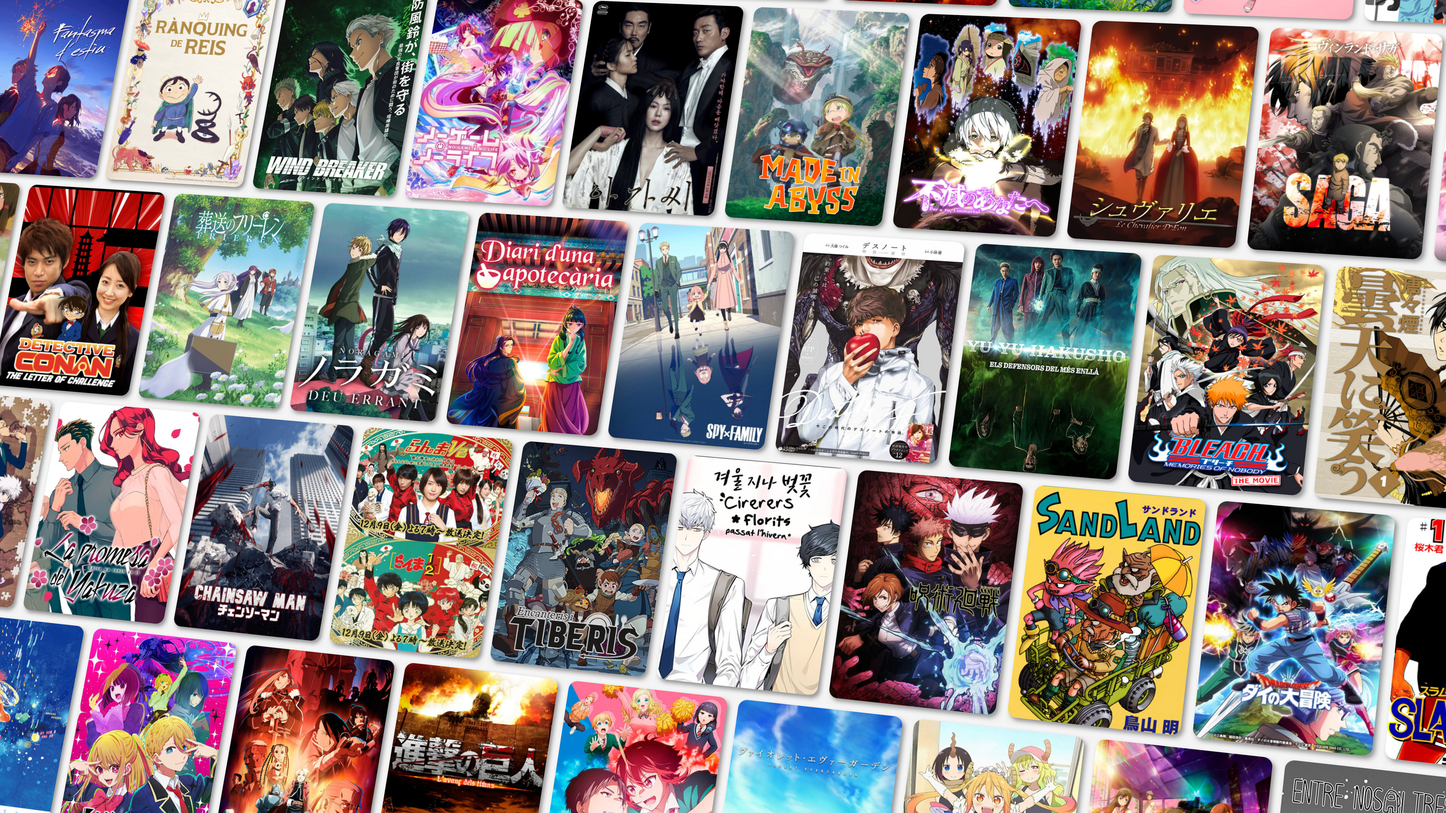
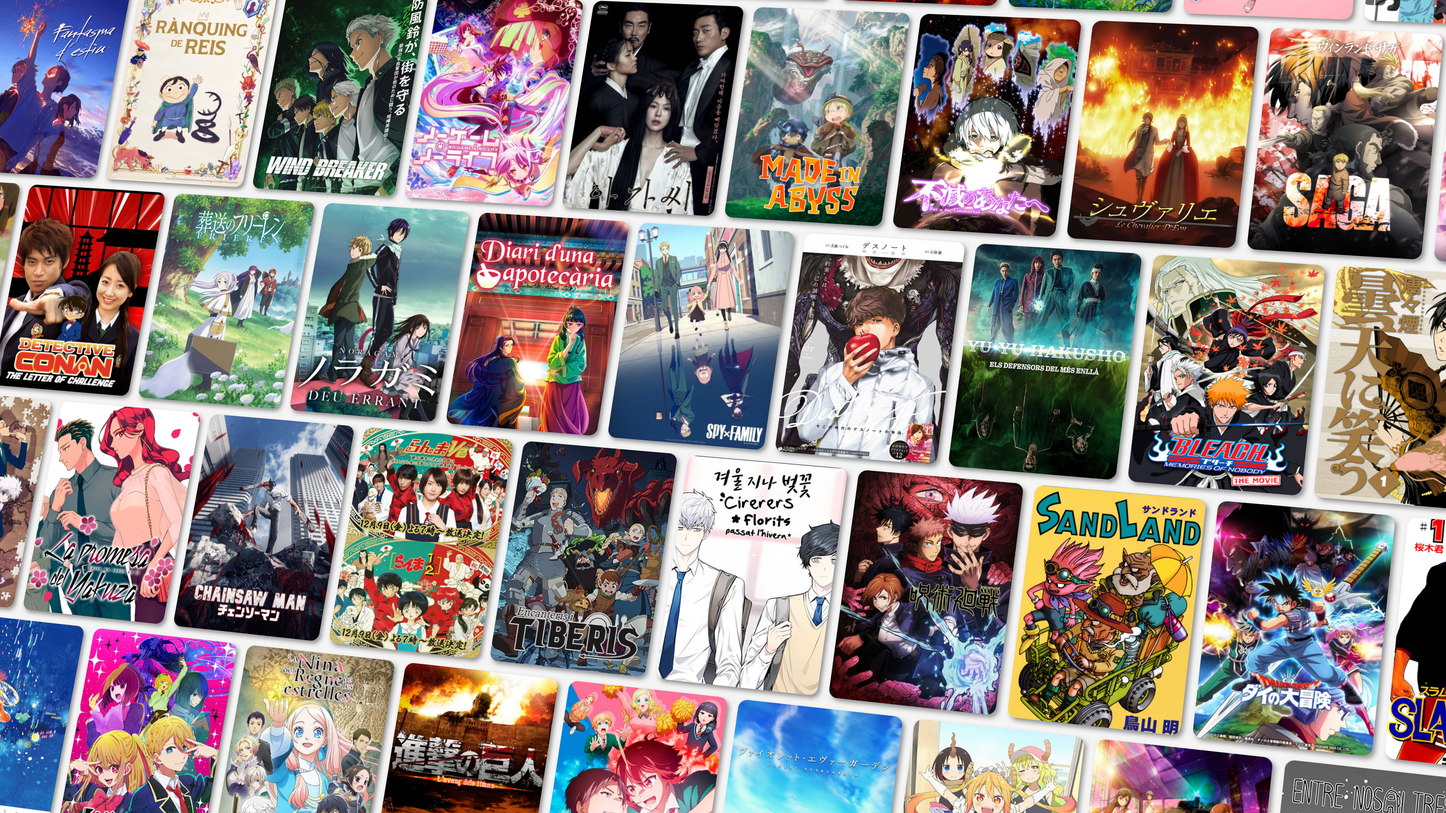
Update social images, fix minor issues

Changed region(s): [[0.125, 0.7755, 0.2812, 1.0]]

diff --git a/tools/generate_backgrounds.php b/tools/generate_backgrounds.php
@@ -4,7 +4,7 @@ define('IMAGE_HEIGHT', 3000);
 define('COVER_WIDTH', 300);
 define('COVER_HEIGHT', 424);
 define('MARGIN', 21);
-define('MODE', 'light');
+define('MODE', 'dark');
 define('ROUND_CORNER', 16);
 
 function scale_smallest_side($image, $desired_width, $desired_height) {
@@ -129,22 +129,22 @@ $current_width = 0;
 $type='fansubs';
 $covers = array(
 	array(0, 0, 0, 0, 0, 0, 0, 0, 0, 0, 0, 0, 0, 0, 0),
-	array(0, 0, 0, 0, 0, 0, 0, 0, 0, 0, 0, 105, 129, 483, 614),
-	array(0, 0, 0, 0, 0, 3918, 537, 4162, 312, 3895, 527, 496, 530, 411, 240),
-	array(0, 0, 0, 0, 0, 578, 3878, 4077, 106, 4101, 597, 3338, 4152, 269, 2088),
-	array(0, 0, 0, 0, 0, 375, 4241, 3930, 3879, 4139, 3383, 489, 4043, 482, 3811),
-	array(0, 0, 0, 0, 0, 0, 459, 4036, 71, 89, 3970, 553, 308, 131, 3956)
+	array(0, 0, 0, 0, 0, 0, 0, 0, 0, 0, 0, 135, 159, 550, 690),
+	array(0, 0, 0, 0, 0, 3922, 606, 4187, 345, 3897, 597, 562, 599, 461, 267),
+	array(0, 0, 0, 0, 0, 652, 3880, 4093, 136, 4119, 673, 3338, 4177, 298, 2088),
+	array(0, 0, 0, 0, 0, 410, 4270, 3934, 3881, 4163, 3383, 552, 4058, 541, 3812),
+	array(0, 0, 0, 0, 0, 0, 515, 4049, 4272, 119, 3975, 622, 341, 161, 3962)
 );
 
 //HENTAI
 $type='hentai';
 $covers = array(
 	array(0, 0, 0, 0, 0, 0, 0, 0, 0, 0, 0, 0, 0, 0, 0),
-	array(0, 0, 0, 0, 0, 0, 0, 0, 0, 0, 0, 4081, 3971, 4153, 4163),
-	array(0, 0, 0, 0, 0, 4181, 3969, 4010, 3990, 4159, 485, 3937, 4005, 3910, 4048),
-	array(0, 0, 0, 0, 0, 4021, 3914, 257, 4205, 3992, 4056, 568, 4257, 543, 4092),
-	array(0, 0, 0, 0, 0, 3972, 4206, 412, 529, 532, 521, 4058, 3040, 467, 4235),
-	array(0, 0, 0, 0, 0, 0, 3998, 4094, 4004, 596, 3995, 3938, 4158, 256, 445)
+	array(0, 0, 0, 0, 0, 0, 0, 0, 0, 0, 0, 4095, 3980, 4178, 4188),
+	array(0, 0, 0, 0, 0, 4211, 3973, 4021, 3998, 4184, 545, 3942, 4015, 3911, 4063),
+	array(0, 0, 0, 0, 0, 4030, 3915, 285, 4240, 4001, 4073, 642, 4285, 624, 4107),
+	array(0, 0, 0, 0, 0, 3979, 4241, 3918, 598, 601, 591, 4083, 3040, 522, 4268),
+	array(0, 0, 0, 0, 0, 0, 4009, 4108, 4014, 675, 4004, 3967, 4183, 284, 499)
 );
 
 for ($i=0; $i<6; $i++) {

diff --git a/services/regenerate_all_previews.php b/services/regenerate_all_previews.php
@@ -2,7 +2,7 @@
 require_once(__DIR__.'/db.inc.php');
 require_once(__DIR__.'/../common/libraries/preview_image_generator.php');
 
-log_action('cron-regenerate-all-previews-started', "Social preview regeneration for all existing version has started");
+log_action('cron-regenerate-all-previews-started', "Social preview regeneration for all existing versions has started");
 
 $result = query("SELECT * FROM version ORDER BY title ASC");
 
@@ -11,6 +11,6 @@ while ($version = mysqli_fetch_assoc($result)) {
 	update_version_preview($version['id']);
 }
 
-log_action('cron-regenerate-all-previews-finished', "Social preview regeneration for all existing version has finished");
+log_action('cron-regenerate-all-previews-finished', "Social preview regeneration for all existing versions has finished");
 echo "All done!\n";
 ?>

diff --git a/websites/catalogue/series.php b/websites/catalogue/series.php
@@ -483,7 +483,7 @@ while ($version = mysqli_fetch_assoc($result)) {
 		}
 		if (!empty($fansub['bluesky_url'])) {
 ?>
-													<a class="fab fa-fw fa-discord bluesky-link" title="<?php echo lang('generic.bluesky_link.alt'); ?>" href="<?php echo $fansub['bluesky_url']; ?>" target="_blank"></a>
+													<a class="fab fa-fw fa-bluesky bluesky-link" title="<?php echo lang('generic.bluesky_link.alt'); ?>" href="<?php echo $fansub['bluesky_url']; ?>" target="_blank"></a>
 <?php
 		}
 		if (!empty($fansub['discord_url'])) {
